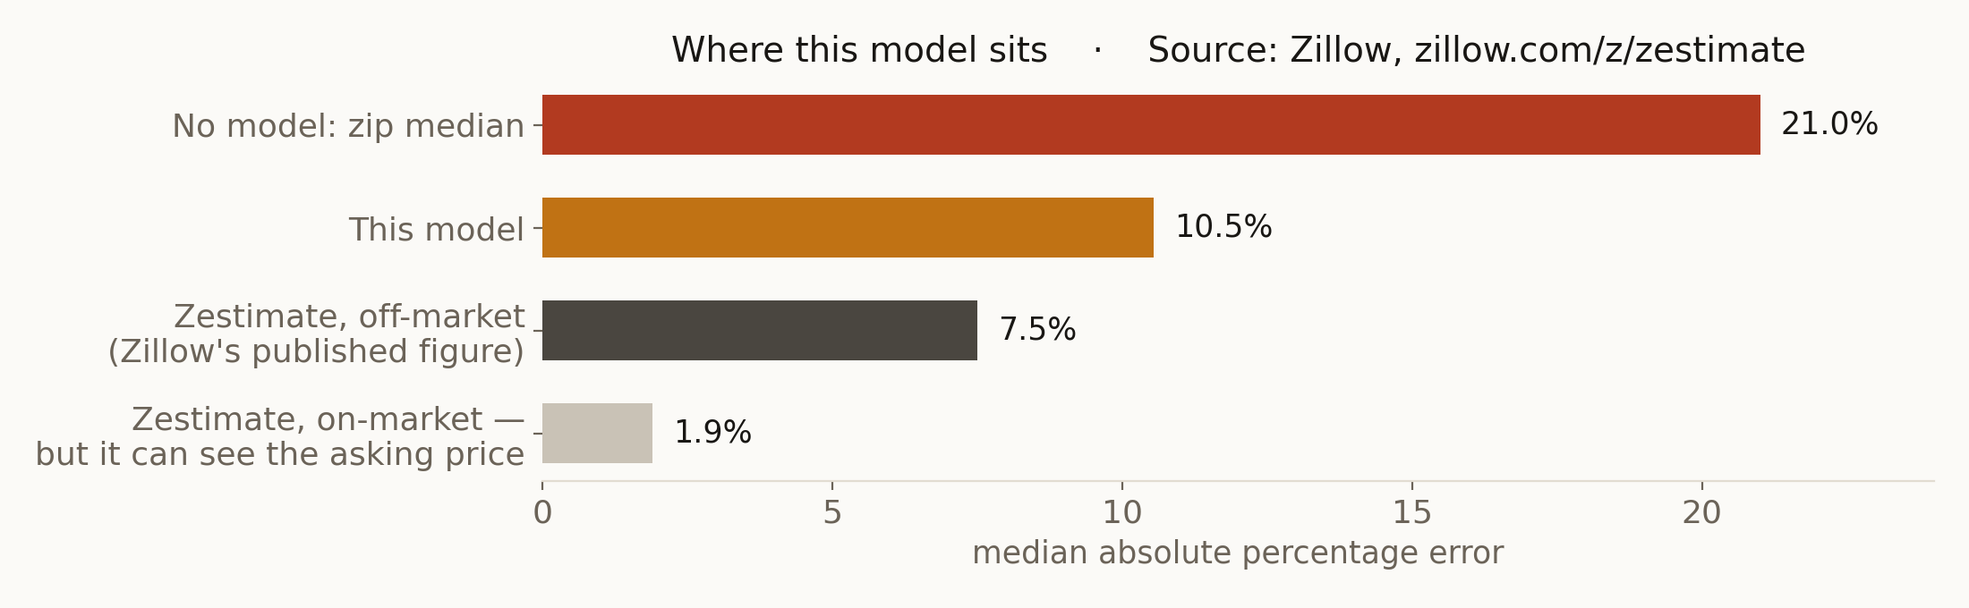
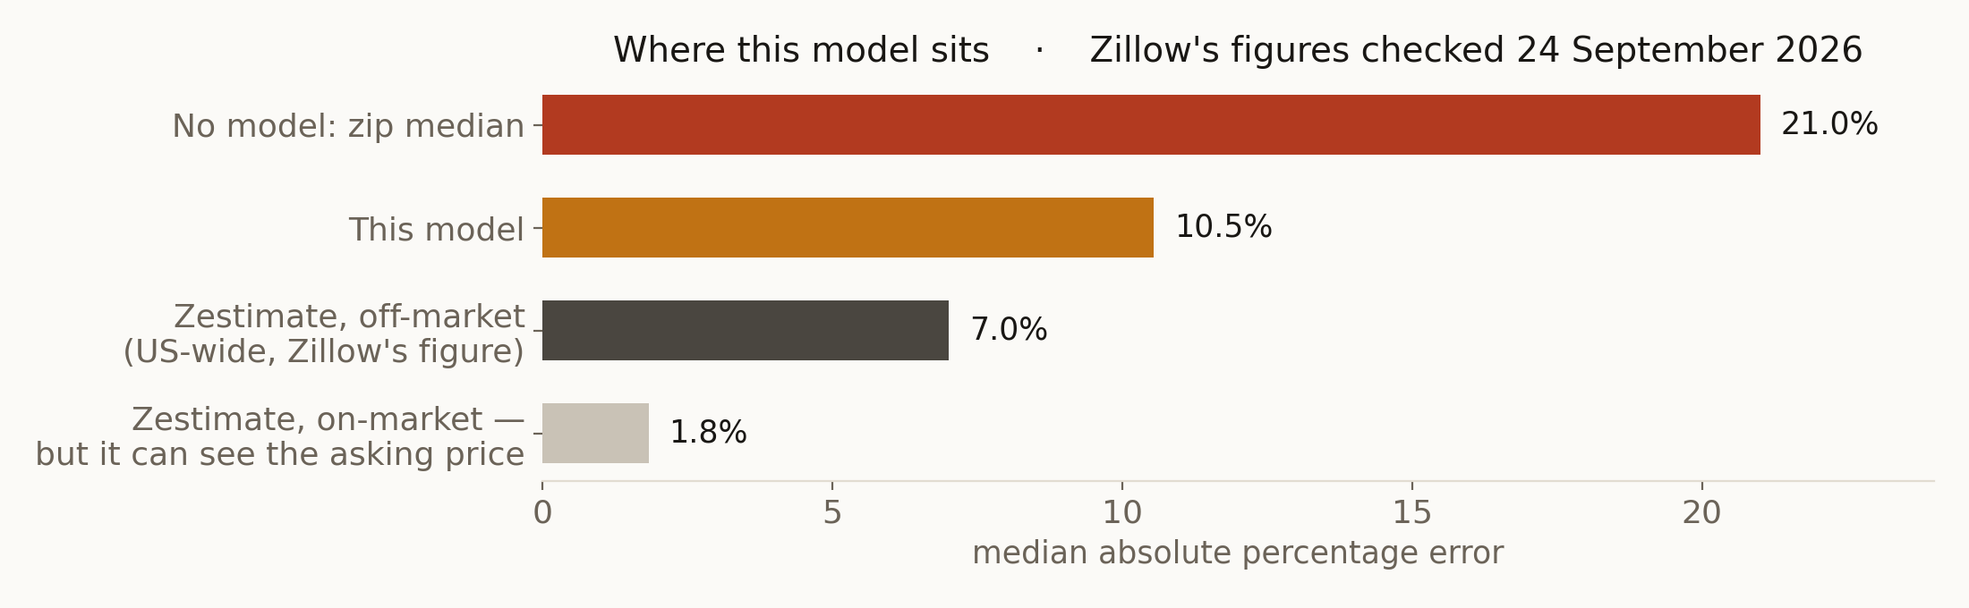
Pre-submission consistency pass: one set of facts everywhere
- Data: README now describes the final dataset - 4,345 King County, WA sales,
  2 May - 10 July 2014, cleaned from 4,601 raw records - not "4,600 sales,
  2014-2015" or "one year". App and Kaggle notebook: 29 waterfront homes
  (cleaned data), King County rather than "Washington State".
- GB vs XGB: every surface quotes notebook 09, section 8: gap -0.24 pp,
  95% bootstrap CI [-0.92, +0.40], Wilcoxon p = 0.12. README and app no longer
  say XGBoost fails the IAAO study - notebook 09 shows it passes; the tie is
  broken on deployment dependencies. Kaggle notebook gains the comparison.
  verify_stats.py is documented as an independent re-check, not a source.
- Zillow: figures updated to Zillow's own page (1.83% on-market, 7.01%
  off-market), dated "checked 24 September 2026", and labelled as context,
  not a head-to-head. Notebook 08 keeps its original figures with a dated note.
- Wording: "valuation benchmark" / "valuation workflow" instead of broker or
  industry practice. README also fixes the per-sqft vs zip-median mix-up
  (13.9% vs 21.0%).
- Branding: "The Real Estate Machine - Graduation Project" and
  "EstateIQ - AI-Assisted Real Estate Valuation & Decision Support".

Claude-Session: https://claude.ai/code/session_01UdvyXfiq19JkQRSSs3Tq74

diff --git a/scripts/build_deck.js b/scripts/build_deck.js
@@ -48,7 +48,7 @@ const HEAD = "Cambria", BODY = "Calibri";
 const p = new pptx();
 p.layout = "LAYOUT_WIDE";
 p.author = "Esraa Maamoun";
-p.title = "The Real Estate Machine";
+p.title = "The Real Estate Machine — Graduation Project";
 
 const W = 13.33, H = 7.5, M = 0.62;
 const usd = (n) => "$" + Math.round(n).toLocaleString("en-US");
@@ -156,8 +156,8 @@ const note = (s, t) => s.addNotes(t);
     });
   });
 
-  s.addText("Esraa Maamoun", {
-    x: M + 0.2, y: 6.82, w: 6, h: 0.35, fontFace: BODY, fontSize: 13,
+  s.addText("Esraa Maamoun   ·   App: EstateIQ — AI-Assisted Real Estate Valuation & Decision Support", {
+    x: M + 0.2, y: 6.82, w: 11, h: 0.35, fontFace: BODY, fontSize: 13,
     color: "9C948A", margin: 0,
   });
   note(s, "Opening line: 'I built a tool that values a house in about a second, tells you how much to trust the number, and writes the reasoning in plain English. I will show you the tool at the end. First, what it is for and why the number is defensible.'\n\nThe three figures at the foot are the whole argument in advance: accuracy, what that means in money, and the size of the evidence.\n\nTiming target: 14 minutes, leaving time for questions.");
@@ -300,7 +300,7 @@ const note = (s, t) => s.addNotes(t);
   const cw = (W - 2 * M - 0.6) / 3;
   const tiles = [
     [usd(F.medae), "Half of all valuations land within this of the sale price", AQUA],
-    [usd(F.save_ppsf), "Less error per house than the broker's price-per-sqft rule of thumb", INK],
+    [usd(F.save_ppsf), "Less error per house than a zip price-per-sqft valuation benchmark", INK],
     [usd(F.save_zip), "Less error per house than a plain zip-median lookup", INK],
   ];
   tiles.forEach(([v, l, c], i) => {
@@ -309,12 +309,12 @@ const note = (s, t) => s.addNotes(t);
     s.addText(v, { x: x + 0.28, y: 5.66, w: cw - 0.56, h: 0.62, fontFace: HEAD, fontSize: 30, bold: true, color: c, margin: 0 });
     s.addText(l, { x: x + 0.28, y: 6.3, w: cw - 0.56, h: 0.62, fontFace: BODY, fontSize: 12.5, color: MUTED, valign: "top", margin: 0 });
   });
-  note(s, `The sentence to say: 'On a portfolio of 200 properties, the difference between this model and the rule of thumb a broker uses today is about $${(F.save_ppsf * 200 / 1000000).toFixed(1)}m of valuation error — and it takes a minute to run.'\n\nBe careful with that framing under questioning: it is error, not profit. The value is in better decisions — which properties to visit, which to bid on, what range to quote — not in the arithmetic itself.\n\nCost: the app runs on a free tier. Time: about a second per valuation.`);
+  note(s, `The sentence to say: 'On a portfolio of 200 properties, the difference between this model and a zip-code price-per-sqft valuation benchmark is about $${(F.save_ppsf * 200 / 1000000).toFixed(1)}m of valuation error — and it takes a minute to run.'\n\nBe careful with that framing under questioning: it is error, not profit. The value is in better decisions — which properties to visit, which to bid on, what range to quote — not in the arithmetic itself.\n\nCost: the app runs on a free tier. Time: about a second per valuation.`);
 }
 
 // ============================================================ 10. recommendations
 {
-  const s = lightSlide("What a broker should actually do on Monday", "Recommendations");
+  const s = lightSlide("What a valuation workflow should do on Monday", "Recommendations");
   const recs = [
     ["Screen by zip code first, property second",
       `Location moves price ${F.zip_ratio}x; every structural feature combined moves it less. Set the buy list at zip level before anyone visits a house.`, BLUE],
@@ -334,7 +334,7 @@ const note = (s, t) => s.addNotes(t);
     y += 1.24;
   });
   footnote(s, "The commercial case is not accuracy. It is a defensible number, an honest range and a written reason, in a second, for nothing.", 6.55);
-  note(s, "Slow down here. This is where the examiners find out whether the modelling served a decision.\n\nOne concrete example: a broker with 200 listings runs them all through the app in a minute, quotes a range rather than a number, and sends a valuer only to the 30 the model is least sure about.");
+  note(s, "Slow down here. This is where the examiners find out whether the modelling served a decision.\n\nOne concrete example: a team with 200 listings runs them all through the app in a minute, quotes a range rather than a number, and sends a valuer only to the 30 the model is least sure about.");
 }
 
 // ============================================================ 11. model comparison
@@ -358,8 +358,8 @@ const note = (s, t) => s.addNotes(t);
 
   card(s, M + 6.25, 1.6, 5.85, 2.35, TINT);
   s.addText("vs tuned XGBoost", { x: M + 6.6, y: 1.8, w: 5.1, h: 0.32, fontFace: BODY, fontSize: 14, bold: true, color: MUTED, margin: 0 });
-  s.addText(`${F.vs_xgb_diff_notebook} pp`, { x: M + 6.6, y: 2.12, w: 5.1, h: 0.75, fontFace: HEAD, fontSize: 38, bold: true, color: MUTED, margin: 0 });
-  s.addText(`95% bootstrap CI [${F.vs_xgb.ci_lo}, +${F.vs_xgb.ci_hi}]\np = ${F.vs_xgb.p}   →   not distinguishable`, {
+  s.addText(`${F.vs_xgb.diff_pp} pp`, { x: M + 6.6, y: 2.12, w: 5.1, h: 0.75, fontFace: HEAD, fontSize: 38, bold: true, color: MUTED, margin: 0 });
+  s.addText(`95% bootstrap CI [${F.vs_xgb.ci_lo.toFixed(2)}, +${F.vs_xgb.ci_hi.toFixed(2)}]\nWilcoxon p = ${F.vs_xgb.p.toFixed(2)}   →   not distinguishable`, {
     x: M + 6.6, y: 2.9, w: 5.1, h: 0.8, fontFace: BODY, fontSize: 13.5, color: MUTED, margin: 0,
   });
 
@@ -378,7 +378,7 @@ const note = (s, t) => s.addNotes(t);
   s.addText("Two models I cannot tell apart are not two equally good products — the tie-break has to come from outside the leaderboard.", {
     x: M + 0.4, y: 6.48, w: 11.5, h: 0.4, fontFace: BODY, fontSize: 13, color: MUTED, margin: 0,
   });
-  note(s, "This is the slide that separates the project from a leaderboard exercise, and the honesty is the point. Do not say 'slightly better'; say 'not distinguishable'.\n\nOne technical footnote in case it is asked: the paired test needs both models' predictions, so XGBoost was refitted with the parameters your grid search chose. That refit scores 10.95% against the 10.78% in notebook 09 — a 0.17-point difference between two fits of the same configuration, which is an order of magnitude smaller than the confidence interval on the comparison. The point estimate quoted here is from the notebook table so that it matches the previous slide.\n\nBoth comparisons are paired — the same 869 houses, both models — with a Wilcoxon signed-rank test and a 2,000-sample bootstrap on the difference in median error.\n\nIf an examiner opens model_comparison.csv and finds XGBoost ahead on R², you have already said it. That is the whole reason it is on the slide.");
+  note(s, "This is the slide that separates the project from a leaderboard exercise, and the honesty is the point. Do not say 'slightly better'; say 'not distinguishable'.\n\nEvery number on this slide comes from notebook 09, section 8 — the same run that produced the comparison table on the previous slide, so the two slides cannot disagree. One more detail if asked: gradient boosting has the smaller error on only 47% of individual houses, which is one more sign of a tie, not a hidden loss.\n\nBoth comparisons are paired — the same 869 houses, both models — with a Wilcoxon signed-rank test and a 2,000-sample bootstrap on the difference in median error.\n\nIf an examiner opens model_comparison.csv and finds XGBoost ahead on R², you have already said it. That is the whole reason it is on the slide.");
 }
 
 // ============================================================ 13. IAAO
@@ -396,7 +396,7 @@ const note = (s, t) => s.addNotes(t);
   s.addText("Final choice, stated as what it is: two models are tied, so I shipped the one that needs no extra dependency to deploy and that won the metric I named in advance.", {
     x: M + 0.4, y: 6.4, w: 11.5, h: 0.42, fontFace: BODY, fontSize: 13, bold: true, color: INK, margin: 0,
   });
-  note(s, "IAAO = International Association of Assessing Officers; this is their Standard on Ratio Studies. Name the source out loud — it shows the criterion came from the industry, not from me.\n\nBe honest that COD 14.6 and PRD 1.030 sit near the edges of their bands, not comfortably inside. The next slide but one explains why PRD is strained: the top decile.\n\nIf pressed on the final choice: gradient boosting is in scikit-learn, so deployment needs no extra package; XGBoost would add one for a difference the test set cannot detect. That is an engineering reason, and I would rather give an engineering reason than pretend the data chose.");
+  note(s, "IAAO = International Association of Assessing Officers; this is their Standard on Ratio Studies. Name the source out loud — it shows the criterion is a published valuation benchmark, not one I invented.\n\nBe honest that COD 14.6 and PRD 1.030 sit near the edges of their bands, not comfortably inside. The next slide but one explains why PRD is strained: the top decile.\n\nIf pressed on the final choice: gradient boosting is in scikit-learn, so deployment needs no extra package; XGBoost would add one for a difference the test set cannot detect. That is an engineering reason, and I would rather give an engineering reason than pretend the data chose.");
 }
 
 // ============================================================ 14. benchmark
@@ -404,13 +404,13 @@ const note = (s, t) => s.addNotes(t);
   const s = lightSlide(`${F.medape}% — good, bad, or neither?`, "Benchmark");
   s.addImage({ path: path.join(S, "fig_benchmark.png"), x: M, y: 1.6, w: 12.1, h: 3.74 });
   card(s, M, 5.5, W - 2 * M, 1.5);
-  s.addText("The fair comparison is the off-market one.", {
+  s.addText("The fairer reference point is the off-market one.", {
     x: M + 0.4, y: 5.68, w: 11.5, h: 0.38, fontFace: BODY, fontSize: 16, bold: true, color: INK, margin: 0,
   });
-  s.addText(`Zillow's on-market Zestimate is four times more accurate than its off-market one — because for a listed home the model can see the asking price. Mine cannot; it sees 20 columns and ten weeks of 2014. Against the off-market figure, on a student dataset, ${F.medape}% is roughly half the distance to a commercial product. ${F.ppe10}% of valuations land within 10% of the sale price.`, {
+  s.addText(`Zillow's own published figures: ${F.zillow.off_market.toFixed(1)}% median error off-market, ${F.zillow.on_market.toFixed(1)}% on-market, where the model can see the asking price (zillow.com, checked ${F.zillow.checked}). Mine has no asking price; it sees 20 columns and ten weeks of 2014 in one county. Different market, years and data: context, not a head-to-head. ${F.ppe10}% of my valuations land within 10% of the sale price.`, {
     x: M + 0.4, y: 6.08, w: 11.5, h: 0.8, fontFace: BODY, fontSize: 13.5, color: MUTED, margin: 0,
   });
-  note(s, "'Is 10-15% error good enough for a real business?' — quote both the median (10.5%) and the mean (14.6%); the mean is dragged by the tail and hiding that would be dishonest.\n\nThe answer: not for a mortgage valuation, where a lender needs an appraisal. Yes for screening, portfolio triage, and giving a seller a starting range in seconds.\n\nSource for the Zillow figures: zillow.com/z/zestimate, their own published accuracy page.");
+  note(s, `'Is 10-15% error good enough for a real business?' — quote both the median (10.5%) and the mean (14.6%); the mean is dragged by the tail and hiding that would be dishonest.\n\nThe answer: not for a mortgage valuation, where a lender needs an appraisal. Yes for screening, portfolio triage, and giving a seller a starting range in seconds.\n\nSource for the Zillow figures: ${F.zillow.url} — Zillow's own published nationwide median error rates (${F.zillow.on_market}% on-market, ${F.zillow.off_market}% off-market), checked ${F.zillow.checked}. Zillow updates these figures, so quote the date you checked them. They describe the whole US market today, not King County in 2014: context for the number, not a like-for-like test.`);
 }
 
 // ============================================================ 15. where it is wrong
@@ -437,7 +437,7 @@ const note = (s, t) => s.addNotes(t);
 
 // ============================================================ 17. live demo
 {
-  const s = lightSlide("The product: a number, a range, a reason, a warning", "Live demo");
+  const s = lightSlide("EstateIQ: a number, a range, a reason, a warning", "Live demo");
   s.addImage({ path: path.join(S, "app_panel.png"), x: M, y: 1.6, w: 6.2, h: 4.77 });
   const bx = M + 6.5, bwid = W - M - bx;
   const bullets = [
@@ -500,7 +500,7 @@ const note = (s, t) => s.addNotes(t);
     x: M, y: 0.9, w: 11.5, h: 0.7, fontFace: HEAD, fontSize: 29, bold: true, color: WHITE, margin: 0,
   });
   const lims = [
-    ["Ten weeks of 2014", "No seasonality, no trend, a price level eleven years stale.", "More months of data — the only way to say anything about direction."],
+    ["Ten weeks of 2014", "No seasonality, no trend, a price level more than a decade stale.", "More months of data — the only way to say anything about direction."],
     ["Location is coarse", "No building grade, no coordinates; a zip code stands in for a neighbourhood.", "Coordinates and grade: the highest-value addition, and the cheapest."],
     ["The top decile is capped", "Trees cannot predict above the highest price they were trained on.", "A separate model for the tail, where extrapolation is possible."],
     [`${F.n_waterfront} waterfront homes`, "Too few for any confident claim, however dramatic the headline.", "Nothing to spend — say the sample size and move on."],
@@ -534,7 +534,7 @@ const note = (s, t) => s.addNotes(t);
   const hasQr = live && fs.existsSync(qrFile);
 
   const links = [
-    ["Live app", live || null],
+    ["EstateIQ live app", live || null],
     ["Code", F.repo_url || null],
     ["Kaggle notebook", F.kaggle_url || null],
   ];

diff --git a/app/app.py b/app/app.py
@@ -208,8 +208,8 @@ st.markdown('<div class="rem-rule"></div>', unsafe_allow_html=True)
 # the header says only what a user needs: what it learned from and how wrong it runs.
 _n_train = cfg.get("n_train")
 st.caption(
-    (f"Trained on {_n_train:,} Washington State home sales (May–July 2014). "
-     if _n_train else "Trained on Washington State home sales (May–July 2014). ")
+    (f"Trained on {_n_train:,} King County, Washington home sales (May–July 2014). "
+     if _n_train else "Trained on King County, Washington home sales (May–July 2014). ")
     + f"Typical error on homes it had never seen: {cfg['test_MedAPE_%']:.1f}% (median)."
 )
 st.markdown(
@@ -528,11 +528,11 @@ with tab_about:
         st.markdown(f"- {w}")
     st.markdown(
         """
-- Only ten weeks of 2014 data: no seasonality, no market trend, and the price level is
-  eleven years out of date.
-- Washington State only. It will not generalise to another market.
+- Only ten weeks of 2014 data (2 May – 10 July): no seasonality, no market trend, and the
+  price level is more than a decade out of date.
+- King County, Washington only. It will not generalise to another market.
 - No building grade and no coordinates, so location is captured coarsely by zip code.
-- About 33 waterfront homes in the whole dataset — too few to be confident about any of them.
+- 29 waterfront homes in the cleaned dataset — too few to be confident about any of them.
 """
     )
 
@@ -553,15 +553,18 @@ predicting `{cfg['target']}` and back-transformed with `{cfg['back_transform']}`
 
 **Model comparison and statistical test.** Chosen over Ridge, Random Forest and XGBoost.
 It beat Ridge by about 2 percentage points of median error, a difference that survived a
-paired significance test. It did **not** beat XGBoost by a distinguishable margin; the
-tie was broken on the IAAO ratio study below, which XGBoost fails.
+paired significance test. It did **not** beat XGBoost by a distinguishable margin: a gap of
+0.24 points, 95% bootstrap interval [−0.92, +0.40], Wilcoxon p = 0.12. Both pass the IAAO
+ratio study below, so the tie was broken on engineering grounds: this model runs on
+scikit-learn alone, with no extra dependency in the deployed app.
 
-**The IAAO ratio study.** The assessment industry judges a valuation model on three
-statistics rather than on accuracy alone:
+**The IAAO ratio study.** The IAAO *Standard on Ratio Studies*, a published mass-appraisal
+valuation benchmark, judges a valuation model on three statistics rather than on accuracy alone:
 median ratio **{cfg['iaao']['median_ratio']:.3f}** (target 0.90-1.10, no systematic
 over- or under-valuation), COD **{cfg['iaao']['cod']:.2f}** (target 5-15, consistency),
 PRD **{cfg['iaao']['prd']:.3f}** (target 0.98-1.03, cheap and expensive homes treated
-alike). This model passes all three. It is the only one of the four that does.
+alike). This model passes all three, as does XGBoost; Ridge fails consistency and Random
+Forest fails vertical equity.
 
 **How a valuation is produced.**
 """

diff --git a/scripts/make_business_figs.py b/scripts/make_business_figs.py
@@ -37,7 +37,7 @@ S = json.loads((OUT / "stats_facts.json").read_text())
 
 # ---------------------------------------------------------------- 1. value levers
 # Diverging: what adds value, what destroys it. One chart answers "where should
-# a refurbishment budget go?", which is the question a broker actually has.
+# a refurbishment budget go?", which is the question a valuation workflow actually has.
 levers = [
     ("Add a bathroom", B["bathroom"]["usd"]),
     ("+1 condition point", B["condition"]["usd"]),
@@ -67,7 +67,7 @@ fig.tight_layout(); fig.savefig(OUT / "fig_value_levers.png", dpi=200); plt.clos
 # Three bars, one message: what the alternatives cost you per house.
 fig, ax = plt.subplots(figsize=(11, 3.5))
 rows = [("Zip median price\n(a lookup, no model)", V["rule_zipmed_mae"], D.STONE),
-        ("Zip $/sqft x size\n(the broker's rule of thumb)", V["rule_ppsf_mae"], D.STONE),
+        ("Zip $/sqft x size\n(a valuation benchmark)", V["rule_ppsf_mae"], D.STONE),
         ("This model", V["mae"], D.AMBER)]
 ax.barh([r[0] for r in rows], [r[1] / 1000 for r in rows],
         color=[r[2] for r in rows], height=0.6)
@@ -102,18 +102,21 @@ bare(ax)
 fig.tight_layout(); fig.savefig(OUT / "fig_confidence_bands.png", dpi=200); plt.close(fig)
 
 # ---------------------------------------------------------------- 4. benchmark, sourced
+# Zillow's published nationwide median error rates change over time, so the figures and
+# the date they were checked live in deck_facts.json, next to the URL they came from.
+Z = json.loads((OUT / "deck_facts.json").read_text())["zillow"]
 fig, ax = plt.subplots(figsize=(11, 3.4))
 rows = [("No model: zip median", V["rule_zipmed_medape"], D.BRICK),
         ("This model", V["medape"], D.AMBER),
-        ("Zestimate, off-market\n(Zillow's published figure)", 7.5, D.GRAPHITE),
-        ("Zestimate, on-market —\nbut it can see the asking price", 1.9, D.STONE)]
+        ("Zestimate, off-market\n(US-wide, Zillow's figure)", Z["off_market"], D.GRAPHITE),
+        ("Zestimate, on-market —\nbut it can see the asking price", Z["on_market"], D.STONE)]
 ax.barh([r[0] for r in rows][::-1], [r[1] for r in rows][::-1],
         color=[r[2] for r in rows][::-1], height=0.58)
 for y, r in enumerate(rows[::-1]):
     ax.text(r[1] + 0.35, y, f"{r[1]:.1f}%", va="center", fontsize=12.5, color=INK)
 ax.set_xlim(0, 24)
 ax.set_xlabel("median absolute percentage error")
-ax.set_title("Where this model sits    ·    Source: Zillow, zillow.com/z/zestimate", fontsize=14)
+ax.set_title(f"Where this model sits    ·    Zillow's figures checked {Z['checked']}", fontsize=14)
 bare(ax)
 fig.tight_layout(); fig.savefig(OUT / "fig_benchmark.png", dpi=200); plt.close(fig)
 

diff --git a/scripts/verify_stats.py b/scripts/verify_stats.py
@@ -1,11 +1,16 @@
 """
 verify_stats.py — the paired comparisons, re-run against the CURRENT artifacts.
 
-The August deck quoted a GB-vs-XGB gap of 0.18 pp. The September re-run moved it,
-and moved XGBoost ahead on R2 and on mean error. Nothing on a slide should be a
-number from the earlier run, so both comparisons are recomputed here on the model
-that is actually in Models/ and an XGBoost refitted with the parameters her own
-grid search selected (learning_rate 0.03, max_depth 4, n_estimators 800).
+An independent re-check, not the source of any quoted number. The GB-vs-XGB figures
+quoted in the README, the deck, the app and the Kaggle notebook all come from notebook 09,
+section 8 (gap -0.24 pp, 95% bootstrap CI [-0.92, +0.40], Wilcoxon p = 0.12), the same
+run as Models/model_comparison.csv.
+
+This script recomputes both comparisons on the model that is actually in Models/ and an
+XGBoost refitted with the parameters the grid search selected (learning_rate 0.03,
+max_depth 4, n_estimators 800). The refit is a second fit of the same configuration and
+lands at 10.95% rather than 10.78%, so its gap and p-value differ from notebook 09's;
+its verdict is the same: not distinguishable. GB vs Ridge reproduces notebook 09 exactly.
 
 Writes reports/slides/stats_facts.json.
 """

diff --git a/scripts/verify_value.py b/scripts/verify_value.py
@@ -4,8 +4,8 @@ verify_value.py — what the model is worth in money, and how wide its range rea
 Two things the August deck never said:
 
 1. Every figure on it was a percentage. A business audience converts to currency
-   or stops listening, so the error is restated in dollars, against the two
-   rules of thumb a broker would otherwise use.
+   or stops listening, so the error is restated in dollars, against two simple
+   valuation benchmarks that need no model.
 
 2. The "8 out of 10 houses" band was a single global number, even though the
    deck's own error-by-decile slide shows the error is not uniform. The band is
@@ -45,7 +45,7 @@ V["mae"] = float(ae.mean())
 V["medae"] = float(np.median(ae))
 V["medape"] = float(100 * np.median(ae / actual))
 
-# --- the two things a broker does instead of modelling ---------------------
+# --- two valuation benchmarks that need no model ---------------------------
 ppsf = (df.loc[tr, "price"] / df.loc[tr, "sqft_living"]).groupby(df.loc[tr, "zipcode"]).median()
 rule_ppsf = (df.loc[~tr, "zipcode"].map(ppsf).fillna(ppsf.median())
              * df.loc[~tr, "sqft_living"]).values

diff --git a/README.md b/README.md
@@ -1,20 +1,20 @@
-# Real Estate Machine
+# The Real Estate Machine — Graduation Project
 
 A house-price valuation system for the King County (WA) residential market: it segments the
 market, predicts a sale price, states how confident it is, and explains the number in plain
 language a buyer or an agent can act on.
 
-The app built in this project is **EstateIQ** — *AI-Assisted Real Estate Valuation & Decision Support*.
+The app built in this project is **EstateIQ — AI-Assisted Real Estate Valuation & Decision Support**.
 It is a decision-support tool, not a formal property appraisal.
 
-**Typical error: 10.5%** on unseen sales — against 21.0% for the zipcode-median rule the
-industry uses as a sanity check.
+**Typical error: 10.5%** on unseen sales — against 13.9% for a zip-code price-per-sqft
+valuation benchmark and 21.0% for a zip-code median-price benchmark (no model in either).
 
 | | |
 |---|---|
 | **Live app** | [real-estate-machine-esraa.streamlit.app](https://real-estate-machine-esraa.streamlit.app/) |
 | **Kaggle notebook** | [Real Estate Machine: House Price Valuation](https://www.kaggle.com/code/esraamaamoun/real-estate-machine-house-price-valuation) |
-| **Data** | 4,600 King County sales, 2014–2015 (Kaggle House Data) |
+| **Data** | 4,345 King County, WA home sales, 2 May – 10 July 2014 — cleaned from the 4,601 raw records of Kaggle's [House price prediction](https://www.kaggle.com/datasets/shree1992/housedata) dataset |
 | **Final model** | Gradient Boosting Regressor — R² 0.863, MedAPE 10.54% |
 
 ![EstateIQ valuing a house: estimate, range, segment, drivers, warning and AI-assisted explanation](reports/slides/app_result.png)
@@ -23,12 +23,13 @@ industry uses as a sanity check.
 
 ## What problem this solves
 
-Ask three people what a house is worth and you get three numbers and no reasoning. The rule of
-thumb most buyers fall back on — median price per square foot in the zipcode — is wrong by
-about 21% on a typical house, because it ignores condition, view, size and the difference
-between two streets in the same zipcode.
+Ask three people what a house is worth and you get three numbers and no reasoning. Two simple
+valuation benchmarks show how far a lookup gets you: valuing a house at its zip code's median
+sale price is wrong by about 21% on a typical house, and scaling the zip code's median price
+per square foot by the house's size is wrong by about 14%. Both ignore condition, view and the
+difference between two streets in the same zip code.
 
-This project replaces that rule with three things:
+This project goes beyond those benchmarks with three things:
 
 1. **A price** — a gradient-boosted model trained on 3,476 sales, wrong by about 10.5% on a
    typical house it has never seen.
@@ -113,7 +114,7 @@ Run them in order; each one saves what the next one loads.
 | `06_clustering` | K-Means, k=4 → four named market segments |
 | `07_classification` | A classifier that recovers the segment from raw inputs (98.7% accuracy) |
 | `08_regression` | Linear/Ridge/Lasso baseline — R² 0.827, MedAPE 12.5% |
-| `09_model_tuning` | RF / GB / XGB tuned; GB wins on the IAAO ratio study |
+| `09_model_tuning` | RF / GB / XGB tuned; paired tests; IAAO ratio study; GB chosen over a tied XGB |
 | `10_llm_explanation` | SHAP → grounded natural-language explanation |
 | `11_streamlit_app` | The interface, built on the modules in `app/` |
 | `12_deployment` | Pre-flight checks before the repository goes public |
@@ -142,16 +143,24 @@ is the correctly specified one.
 
 | Model | R² | MedAPE | MAPE | Within ±10% |
 |---|---|---|---|---|
-| Zipcode-median rule | 0.53 | 21.0% | — | — |
+| Zip-code median price (no model) | 0.527 | 21.00% | 26.22% | 25.5% |
+| Zip-code median $/sqft × size (no model) | 0.784 | 13.94% | 18.02% | 38.4% |
 | Ridge baseline | 0.827 | 12.52% | 16.83% | 41.0% |
 | RF (tuned) | 0.847 | 11.30% | 14.98% | 45.7% |
 | XGB (tuned) | 0.867 | 10.78% | 14.38% | 47.0% |
 | **GB (tuned) — shipped** | **0.863** | **10.54%** | **14.58%** | **47.9%** |
 
-GB and XGB are statistically indistinguishable on error (difference −0.18 pp, bootstrap CI
-[−0.72, +0.49], Wilcoxon p = 0.20). The tie is broken on the **IAAO ratio study**, the
-standard appraisal authorities use: GB is the only model that passes all three tests
-(ratio 0.998, COD 14.61, PRD 1.030 — Ridge fails COD, RF and XGB fail PRD).
+GB and XGB are statistically indistinguishable on error: GB's median error is 0.24 points
+lower, but the 95% bootstrap interval for that gap is [−0.92, +0.40] and the paired Wilcoxon
+test gives p = 0.12 (notebook 09, section 8, on the same 869 test houses). XGB is also ahead
+on R² and on mean error.
+
+The **IAAO ratio study** (the *Standard on Ratio Studies*, a published mass-appraisal
+valuation benchmark) narrows four models to two: Ridge fails uniformity (COD 16.87) and RF
+fails vertical equity (PRD 1.043), while GB (ratio 0.998, COD 14.60, PRD 1.030) and XGB
+(COD 14.42, PRD 1.030) both pass all three tests. The tie is broken on
+engineering grounds: GB ships from scikit-learn alone, with no extra dependency in the
+deployed app, and it leads on MedAPE, the metric chosen before the models were run.
 
 ### What drives the price
 
@@ -173,7 +182,7 @@ none.
 - **The cheapest decile is over-valued** by roughly 12%.
 - **Premium View Property** carries about twice the error of the other segments (17.9%) — it
   is the smallest segment at 7.9% of sales, and view is the hardest attribute to quantify.
-- **No time trend is modelled.** The data spans one year in one county; the model is a
+- **No time trend is modelled.** The data spans ten weeks (2 May – 10 July 2014) in one county; the model is a
   cross-sectional snapshot, not a forecast.
 - **Renovation looks worth 23% raw, ~10% like-for-like.** The raw figure is confounded by
   which houses get renovated.
